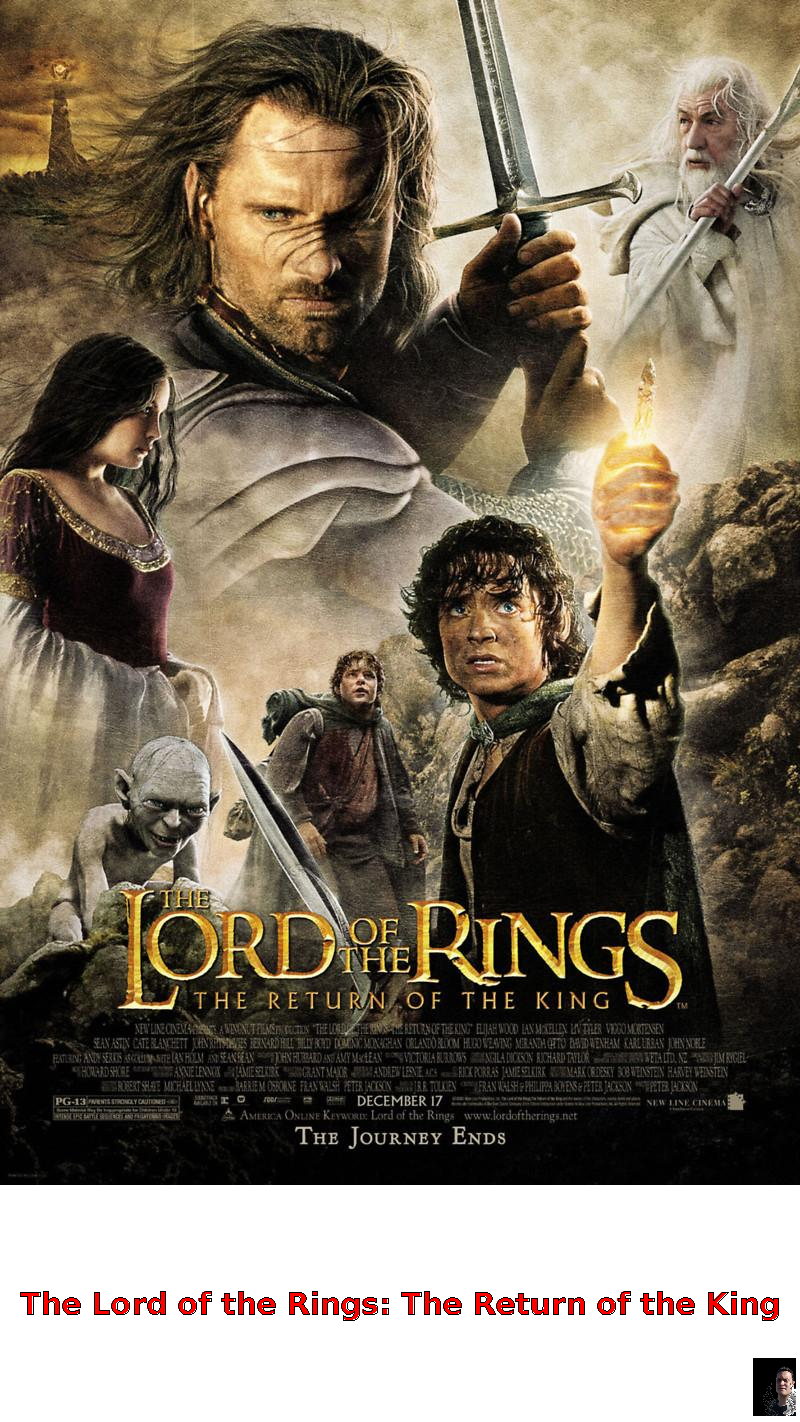
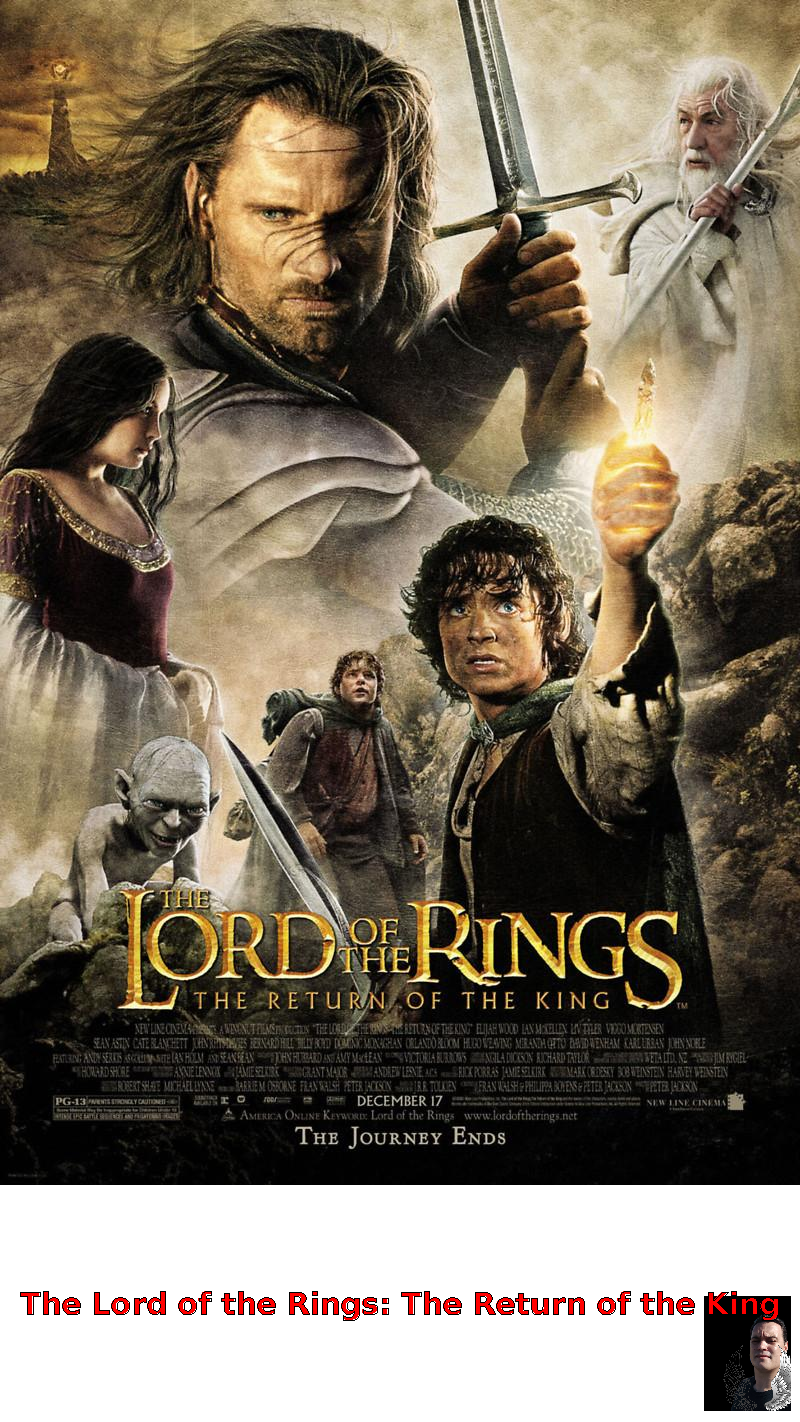
Fixed rating and scale

Changed region(s): [[0.875, 0.8973, 1.0, 1.0]]

diff --git a/src/App.java b/src/App.java
@@ -50,7 +50,7 @@ public class App {
             String rating = movie.get("imDbRating") + String.join("", Collections.nCopies(maxRatingLength - movie.get("imDbRating").length(), " "));
             System.out.println(title + "\t|\t" + rating +  "\t|\t" + image);
             InputStream watermark;
-            if(Double.parseDouble(rating) > 9d){
+            if(Double.parseDouble(rating) >= 9d){
                 watermark = new FileInputStream(new File("resources/watermark-devil.png"));
             } else{
                 watermark = new FileInputStream(new File("resources/watermark-angel.png"));

diff --git a/src/StickerFactory.java b/src/StickerFactory.java
@@ -77,7 +77,7 @@ public class StickerFactory {
         */
         if (watermark != null){
             BufferedImage waterMarkImage = ImageIO.read(watermark);
-            float scale = Math.min((orgWidth/waterMarkImage.getWidth())*0.1f, (orgHeight/waterMarkImage.getHeight())*0.1f);
+            float scale = Math.min((orgWidth/waterMarkImage.getWidth())*0.2f, (orgHeight/waterMarkImage.getHeight())*0.2f);
             waterMarkImage = resizeImage(waterMarkImage, Math.round(waterMarkImage.getWidth()*scale), Math.round(waterMarkImage.getHeight()*scale));
 
             /*
